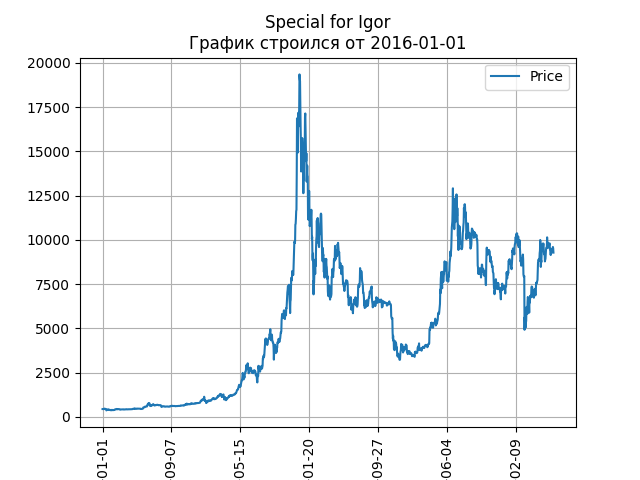
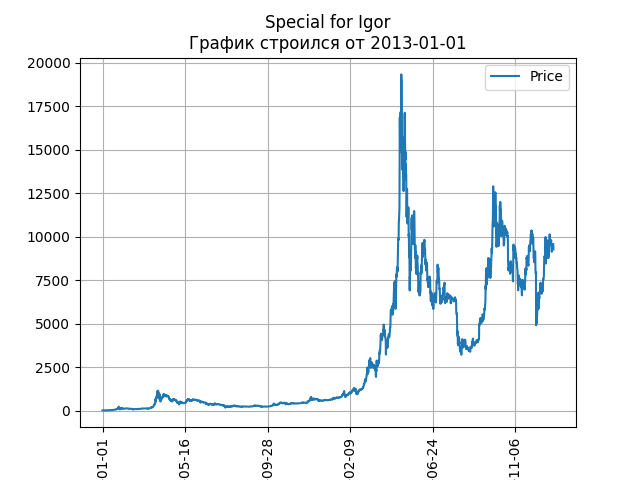
minor changes

diff --git a/SvblvBot.py b/SvblvBot.py
@@ -80,6 +80,7 @@ def result(message: Message):
         if output[0]=='!':
             bot.send_message(message.chat.id, output[1:])
         else:
+            mf.get_bitcoin_timeseries('2013-01-01', date.today(),message.from_user.first_name)
             with open('Price_plot.png','rb') as f:
                 bot.send_photo(message.chat.id,f,caption=output)
     elif message_text == 'Погода':
@@ -108,7 +109,11 @@ def result(message: Message):
 def handle_location(message: Message):
 
     output = mf.get_weather(message.location.latitude, message.location.longitude)
-    
+
     bot.send_message(message.chat.id, output)
+    with open('log_svblv_bot.txt','a') as f:
+        old_str='\n'
+        new_str=''
+        print(f'User: {message.from_user.first_name} Message: {message.text} Output: {output.replace(old_str, new_str)}',file=f)
 
 bot.polling()

diff --git a/my_functions.py b/my_functions.py
@@ -47,8 +47,8 @@ def get_weather(lat, lon):
     r=requests.get(f'http://api.openweathermap.org/data/2.5/weather?lat={lat}&lon={lon}&appid={API_key}')
     weather_info = r.json()
 
-    output1 = f'Текущая погода в {weather_info["name"]}: {weather_info["main"]["temp"] - 273,15}\n\n'
-    output2 = f'Ощущается как {weather_info["main"]["feels_like"] - 273,15}\n\n'
+    output1 = f'Текущая погода в {weather_info["name"]}: {weather_info["main"]["temp"] - 273.15:0.2f}\n\n'
+    output2 = f'Ощущается как {weather_info["main"]["feels_like"] - 273.15:0.2f}\n\n'
     output3 = f'Скорость ветра {weather_info["wind"]["speed"]} м/с'
 
     output = output1 + output2 + output3
